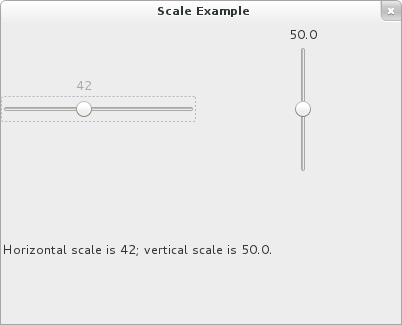
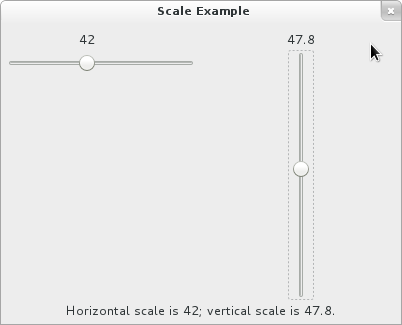
tutorials python: a better scale example

diff --git a/platform-demos/C/samples/scale.py b/platform-demos/C/samples/scale.py
@@ -5,6 +5,7 @@ class MyWindow(Gtk.ApplicationWindow):
     def __init__(self, app):
         Gtk.Window.__init__(self, title="Scale Example", application=app)
         self.set_default_size(400, 300)
+        self.set_border_width(5)
 
         # two adjustments (initial value, min value, max value,
         # step increment - press cursor keys to see!,
@@ -16,42 +17,42 @@ class MyWindow(Gtk.ApplicationWindow):
         # an horizontal scale
         h_scale = Gtk.Scale(orientation=Gtk.Orientation.HORIZONTAL, adjustment=ad1)
         h_scale.set_digits(0)
+        # that can expand horizontally if there is space in the grid (see below)
+        h_scale.set_hexpand(True)
+        # that is aligned at the top of the space allowed in the grid (see below)
+        h_scale.set_valign(Gtk.Align.START)
 
         h_scale.connect("value-changed", self.scale_moved)
 
         # a vertical scale
         v_scale = Gtk.Scale(orientation=Gtk.Orientation.VERTICAL, adjustment=ad2)
+        # that can expand vertically if there is space in the grid (see below)
+        v_scale.set_vexpand(True)
 
         v_scale.connect("value-changed", self.scale_moved)
 
-        # the statusbar (the context_id is not shown in the UI but it is needed)
-        statusbar = Gtk.Statusbar()
-        context_id = statusbar.get_context_id("example")
-        # pushed a new message onto the statusbar's stack
-        statusbar.push(context_id, "Move around the scales...")
+        # a label
+        label = Gtk.Label()
+        label.set_text("Move around the scales...")
 
         # a grid to attach the widgets
         grid = Gtk.Grid()
         grid.set_column_spacing(10)
         grid.set_column_homogeneous(True)
-        grid.set_row_homogeneous(True)
         grid.attach(h_scale, 1, 1, 1, 1)
         grid.attach_next_to(v_scale, h_scale, Gtk.PositionType.RIGHT, 1, 1)
-        grid.attach(statusbar, 1, 2, 2, 1)
+        grid.attach(label, 1, 2, 2, 1)
 
         self.add(grid)
 
-        self.bar = statusbar
-        self.id = context_id
+        self.label = label
         self.scale1 = h_scale
         self.scale2 = v_scale
 
-    # any signal from the scales is signaled to the statusbar
-    # onto which we push a new status
+    # any signal from the scales is signaled to the label the text of which is changed
     def scale_moved(self, event):
-        self.bar.push(self.id,
-                      "Horizontal scale is " + str(int(self.scale1.get_value())) +
-                      "; vertical scale is " + str(self.scale2.get_value()) + ".")
+        self.label.set_text("Horizontal scale is " + str(int(self.scale1.get_value())) +
+                            "; vertical scale is " + str(self.scale2.get_value()) + ".")
         return True
 
 class MyApplication(Gtk.Application):
